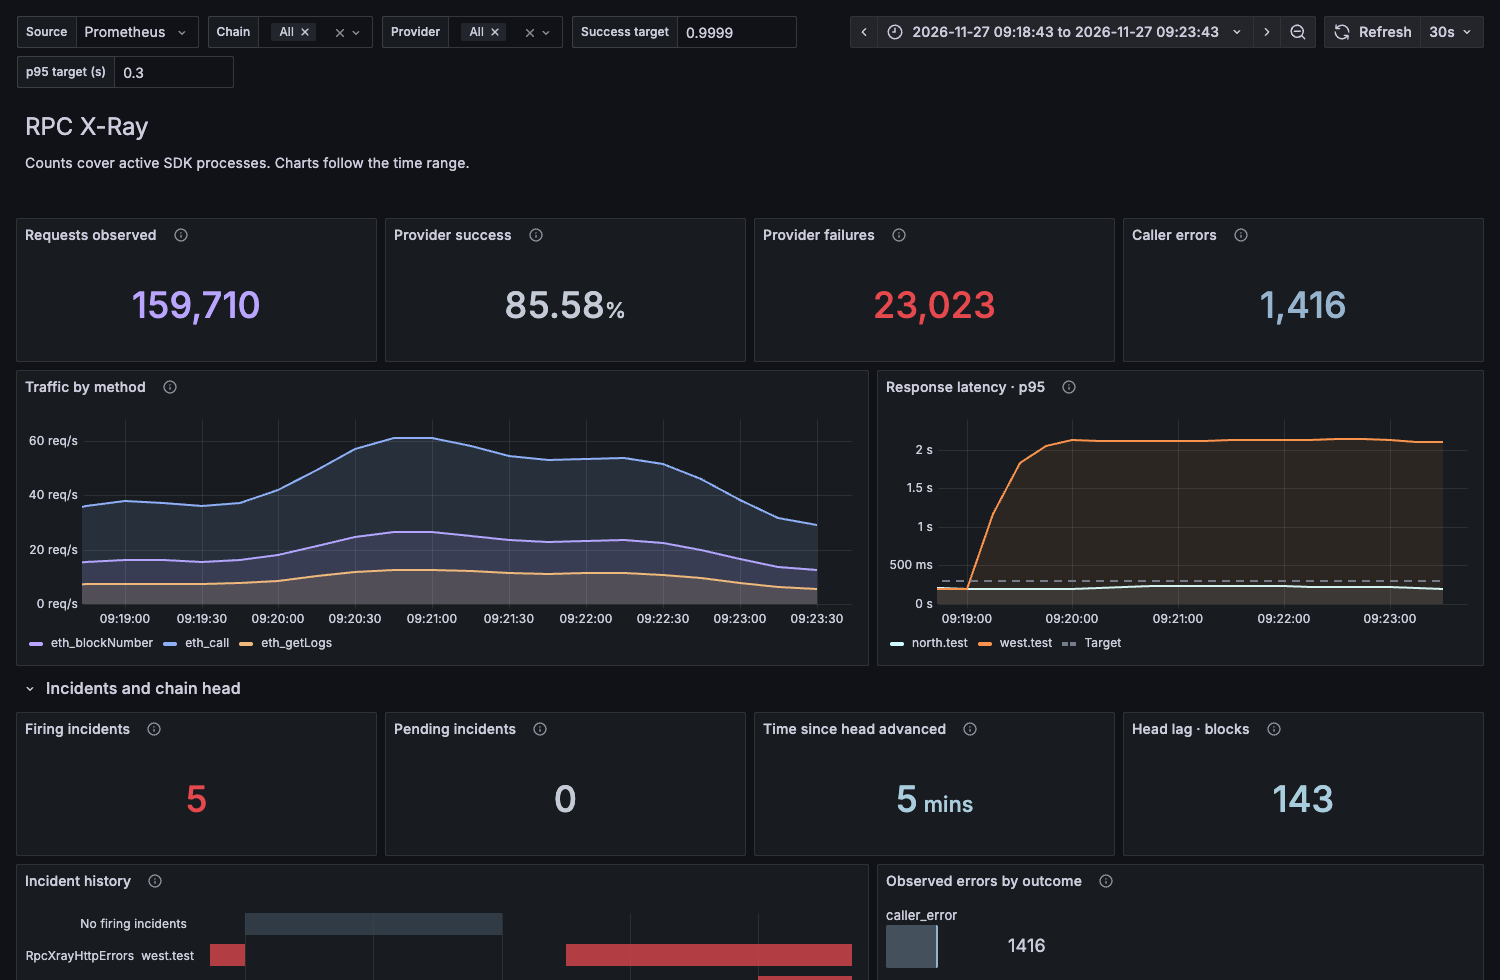
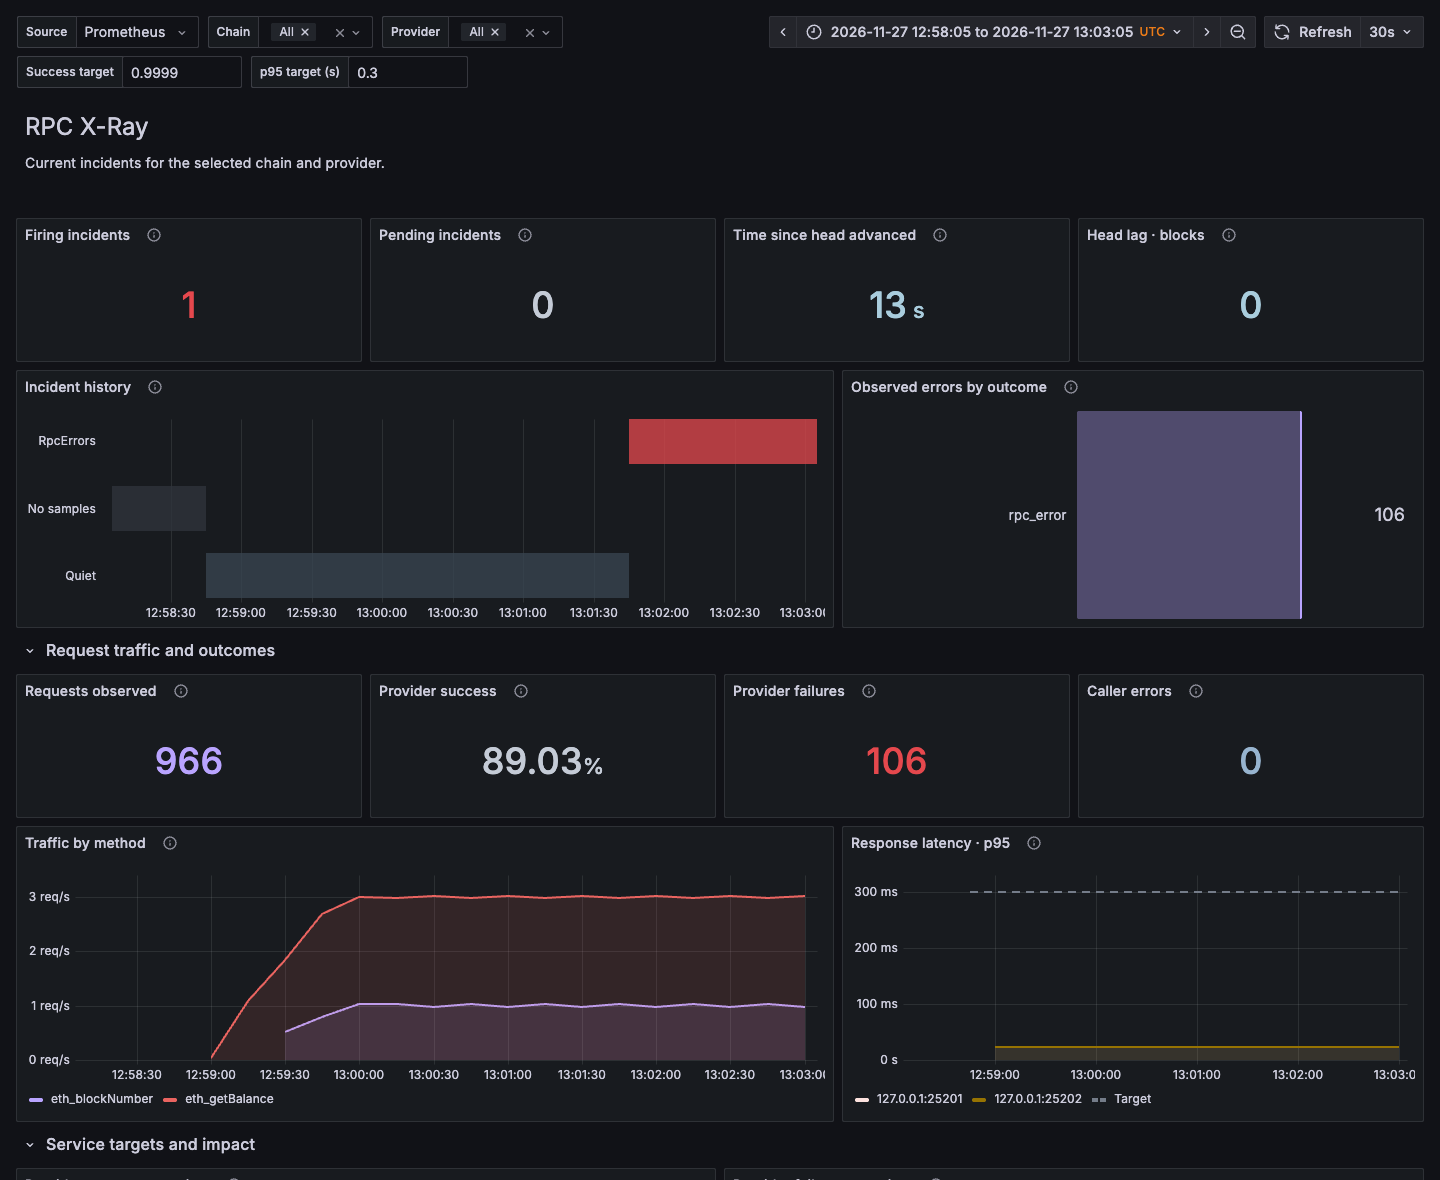
Show cold, mobile, firing and recovered Grafana views from SDK integrations

diff --git a/README.md b/README.md
@@ -152,9 +152,9 @@ An incident is something a person would have been paged for. Defaults, per chain
 
 ## Read the dashboard
 
-![Local Grafana rehearsal showing traffic, latency, five firing incidents and provider head lag](assets/dashboard.png)
+![Local Grafana dashboard showing a firing JSON-RPC incident, its error count, and traffic from two simulated endpoints](assets/dashboard.png)
 
-Firing and pending incidents appear at the top, including on mobile. Incident history shows which rules fired within the current chain and provider filters. Select a single provider to isolate its history. **No samples** means no matching request telemetry, **Awaiting rules** means requests arrived before the first incident-rule sample, and **Quiet** means the rules evaluated with no firing incidents.
+Firing and pending incidents appear at the top, including on mobile. Incident history shows which rules fired within the current chain and provider filters. Select a single provider to isolate its history. **No samples** means no matching request telemetry, **Awaiting rules** means requests arrived before the first incident-rule sample, and **Quiet** means the rules evaluated with no firing incidents. [Desktop and mobile screenshots](assets/integration-review/README.md)
 
 The request overview counts requests from the selected SDK processes at the end of the time range. A failure first scraped at a count of one appears immediately. Counters reset when a process restarts. Provider success includes valid caller rejections, which also appear under **Caller errors**.
 

diff --git a/assets/integration-review/README.md b/assets/integration-review/README.md
@@ -1,0 +1,12 @@
+# Grafana integration captures
+
+These captures use the provisioned Grafana dashboard and real SDK metrics from local, simulated RPC endpoints. The incident rules kept their shipped thresholds and hold times.
+
+| View | What to look for |
+|---|---|
+| [No request samples](no-samples.png) | The history shows **No samples** and the incident counts remain unmeasured. |
+| [Requests arriving before rule data](awaiting-rules.png) | The exporter is sending data. **Awaiting rules** distinguishes a deliberately missing rule group from an observed quiet period. |
+| [Firing incident on desktop](../dashboard.png) | A Node.js app observes provider errors inside HTTP 200 responses. The current count, history, and error breakdown are visible together. |
+| [Firing incident on a phone](mobile-firing.png) | Both incident counts fit in the first 390-pixel-wide viewport. |
+| [History on a phone](mobile-history.png) | The Rust app's HTTP failures appear under **HttpErrors**. The single error bar retains its `http_error` label. |
+| [Recovered incident](recovered.png) | The firing count returns to zero. The timeline retains the firing interval and the exporter retains its cumulative error count. |
